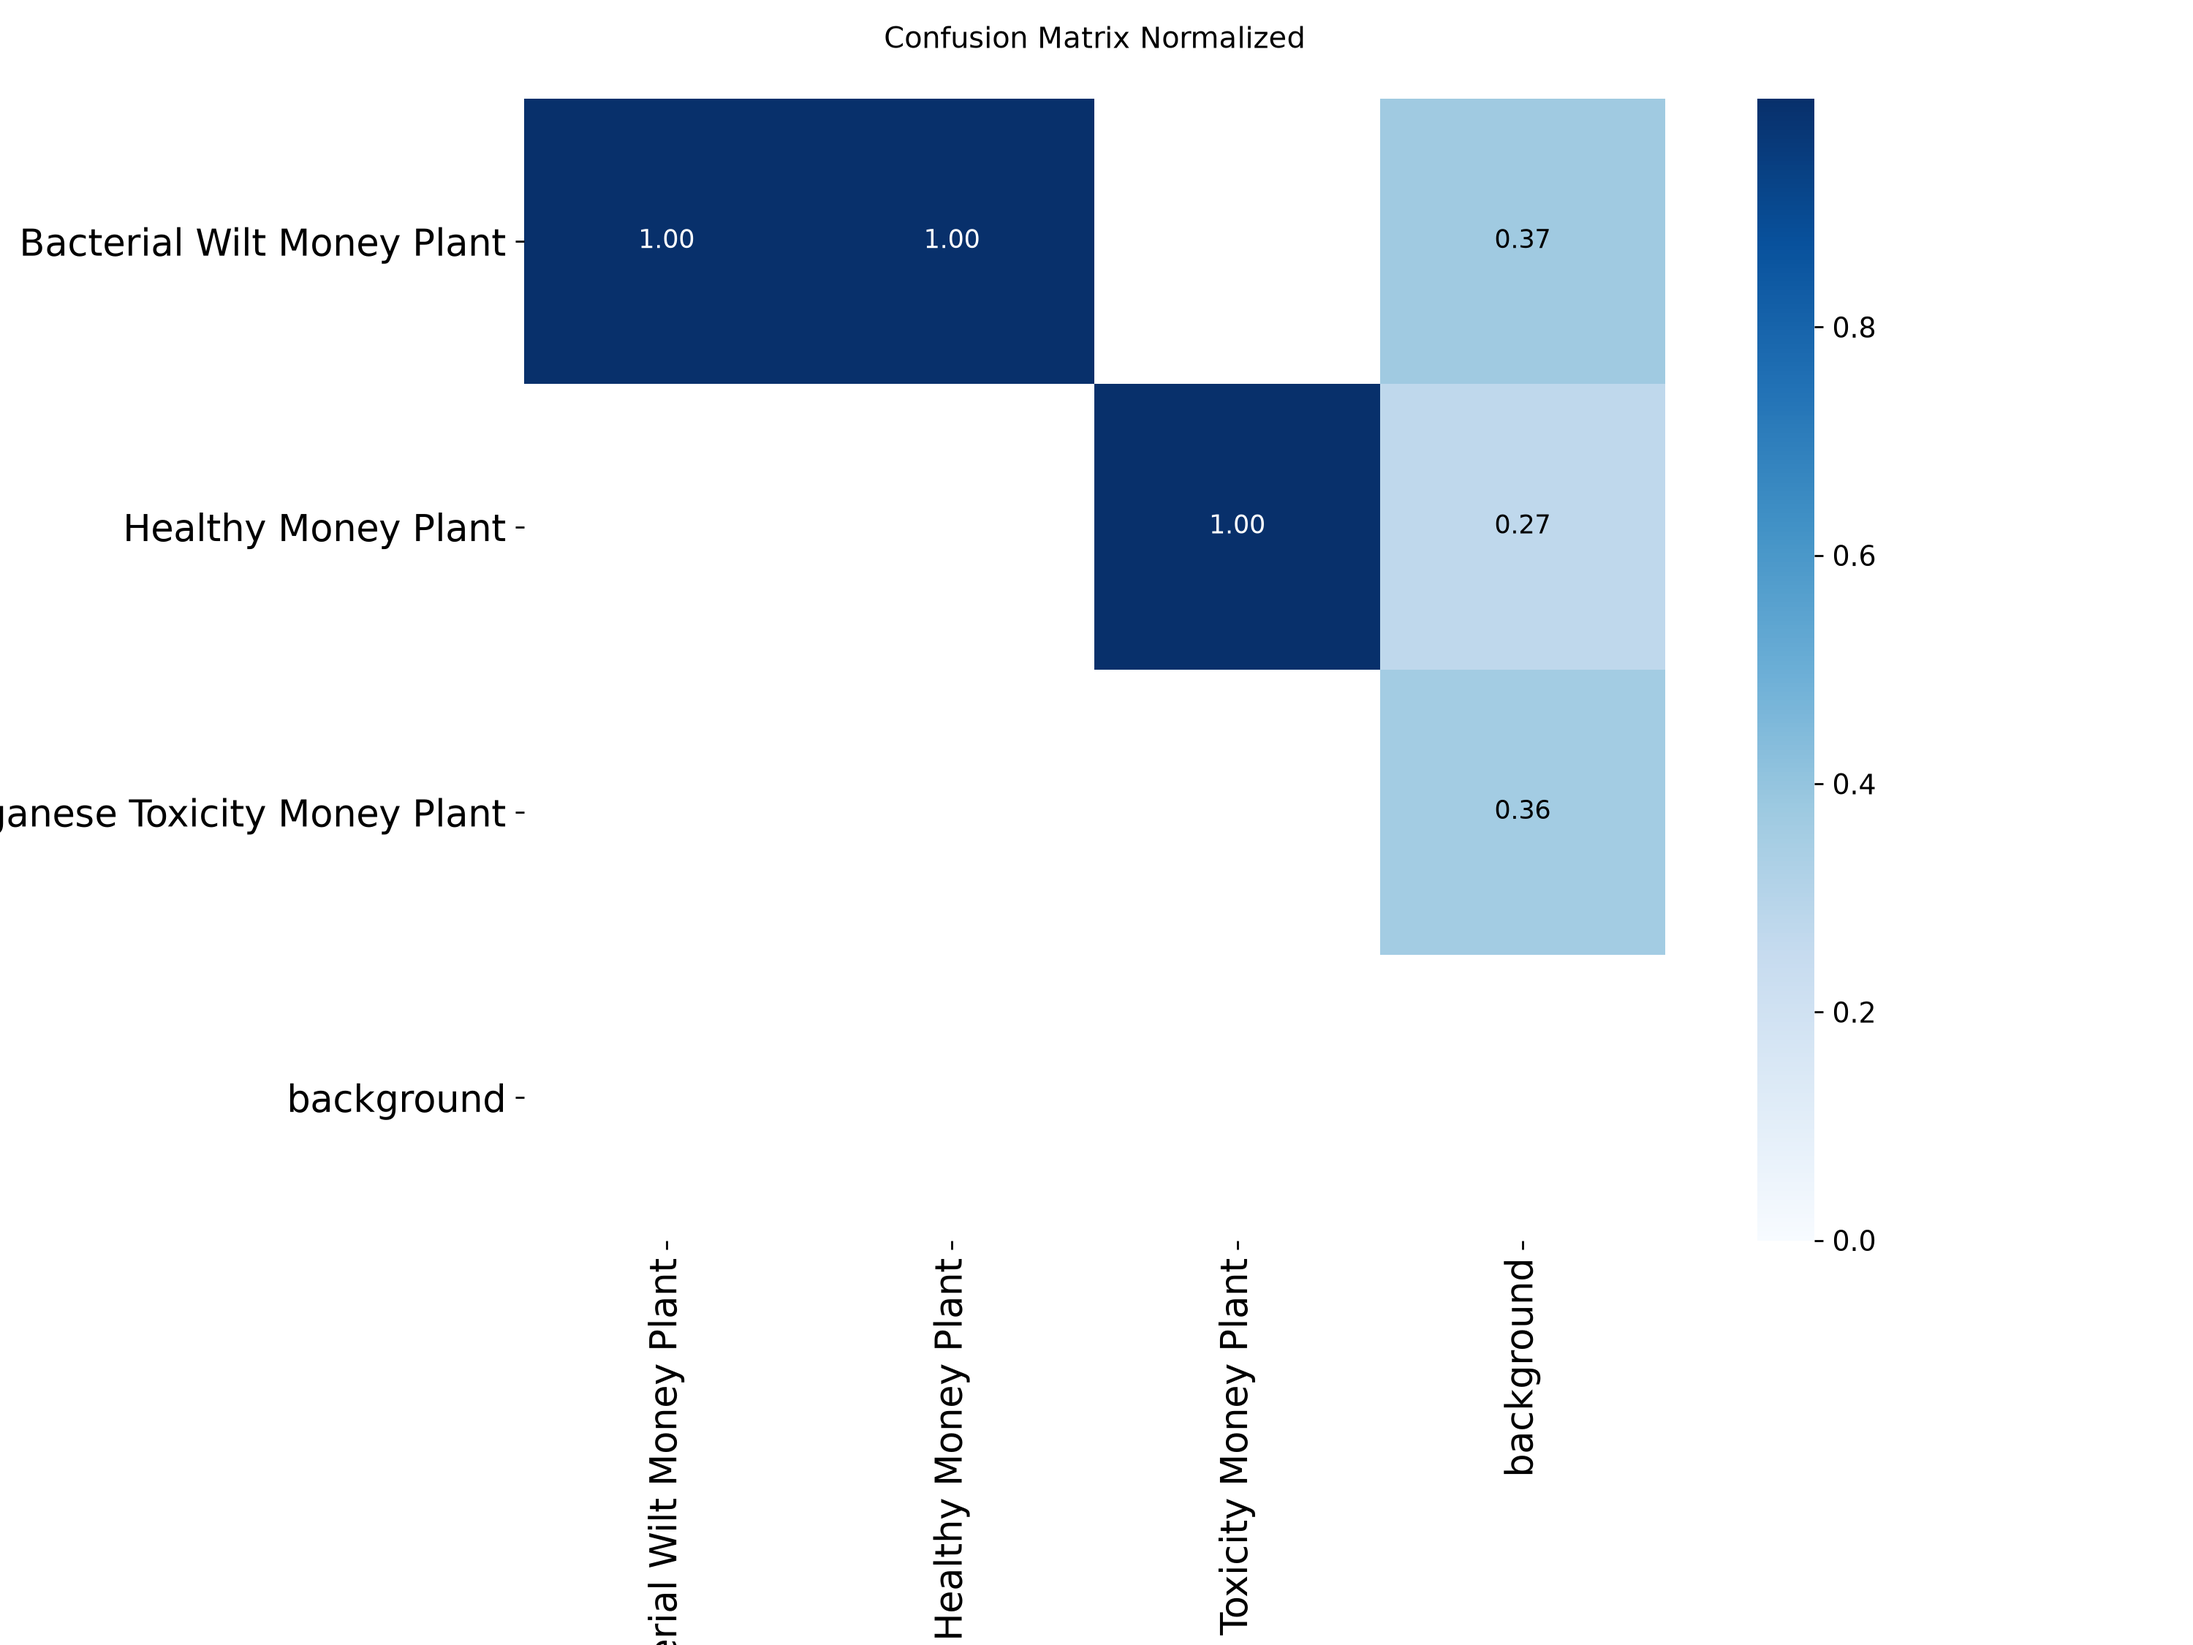
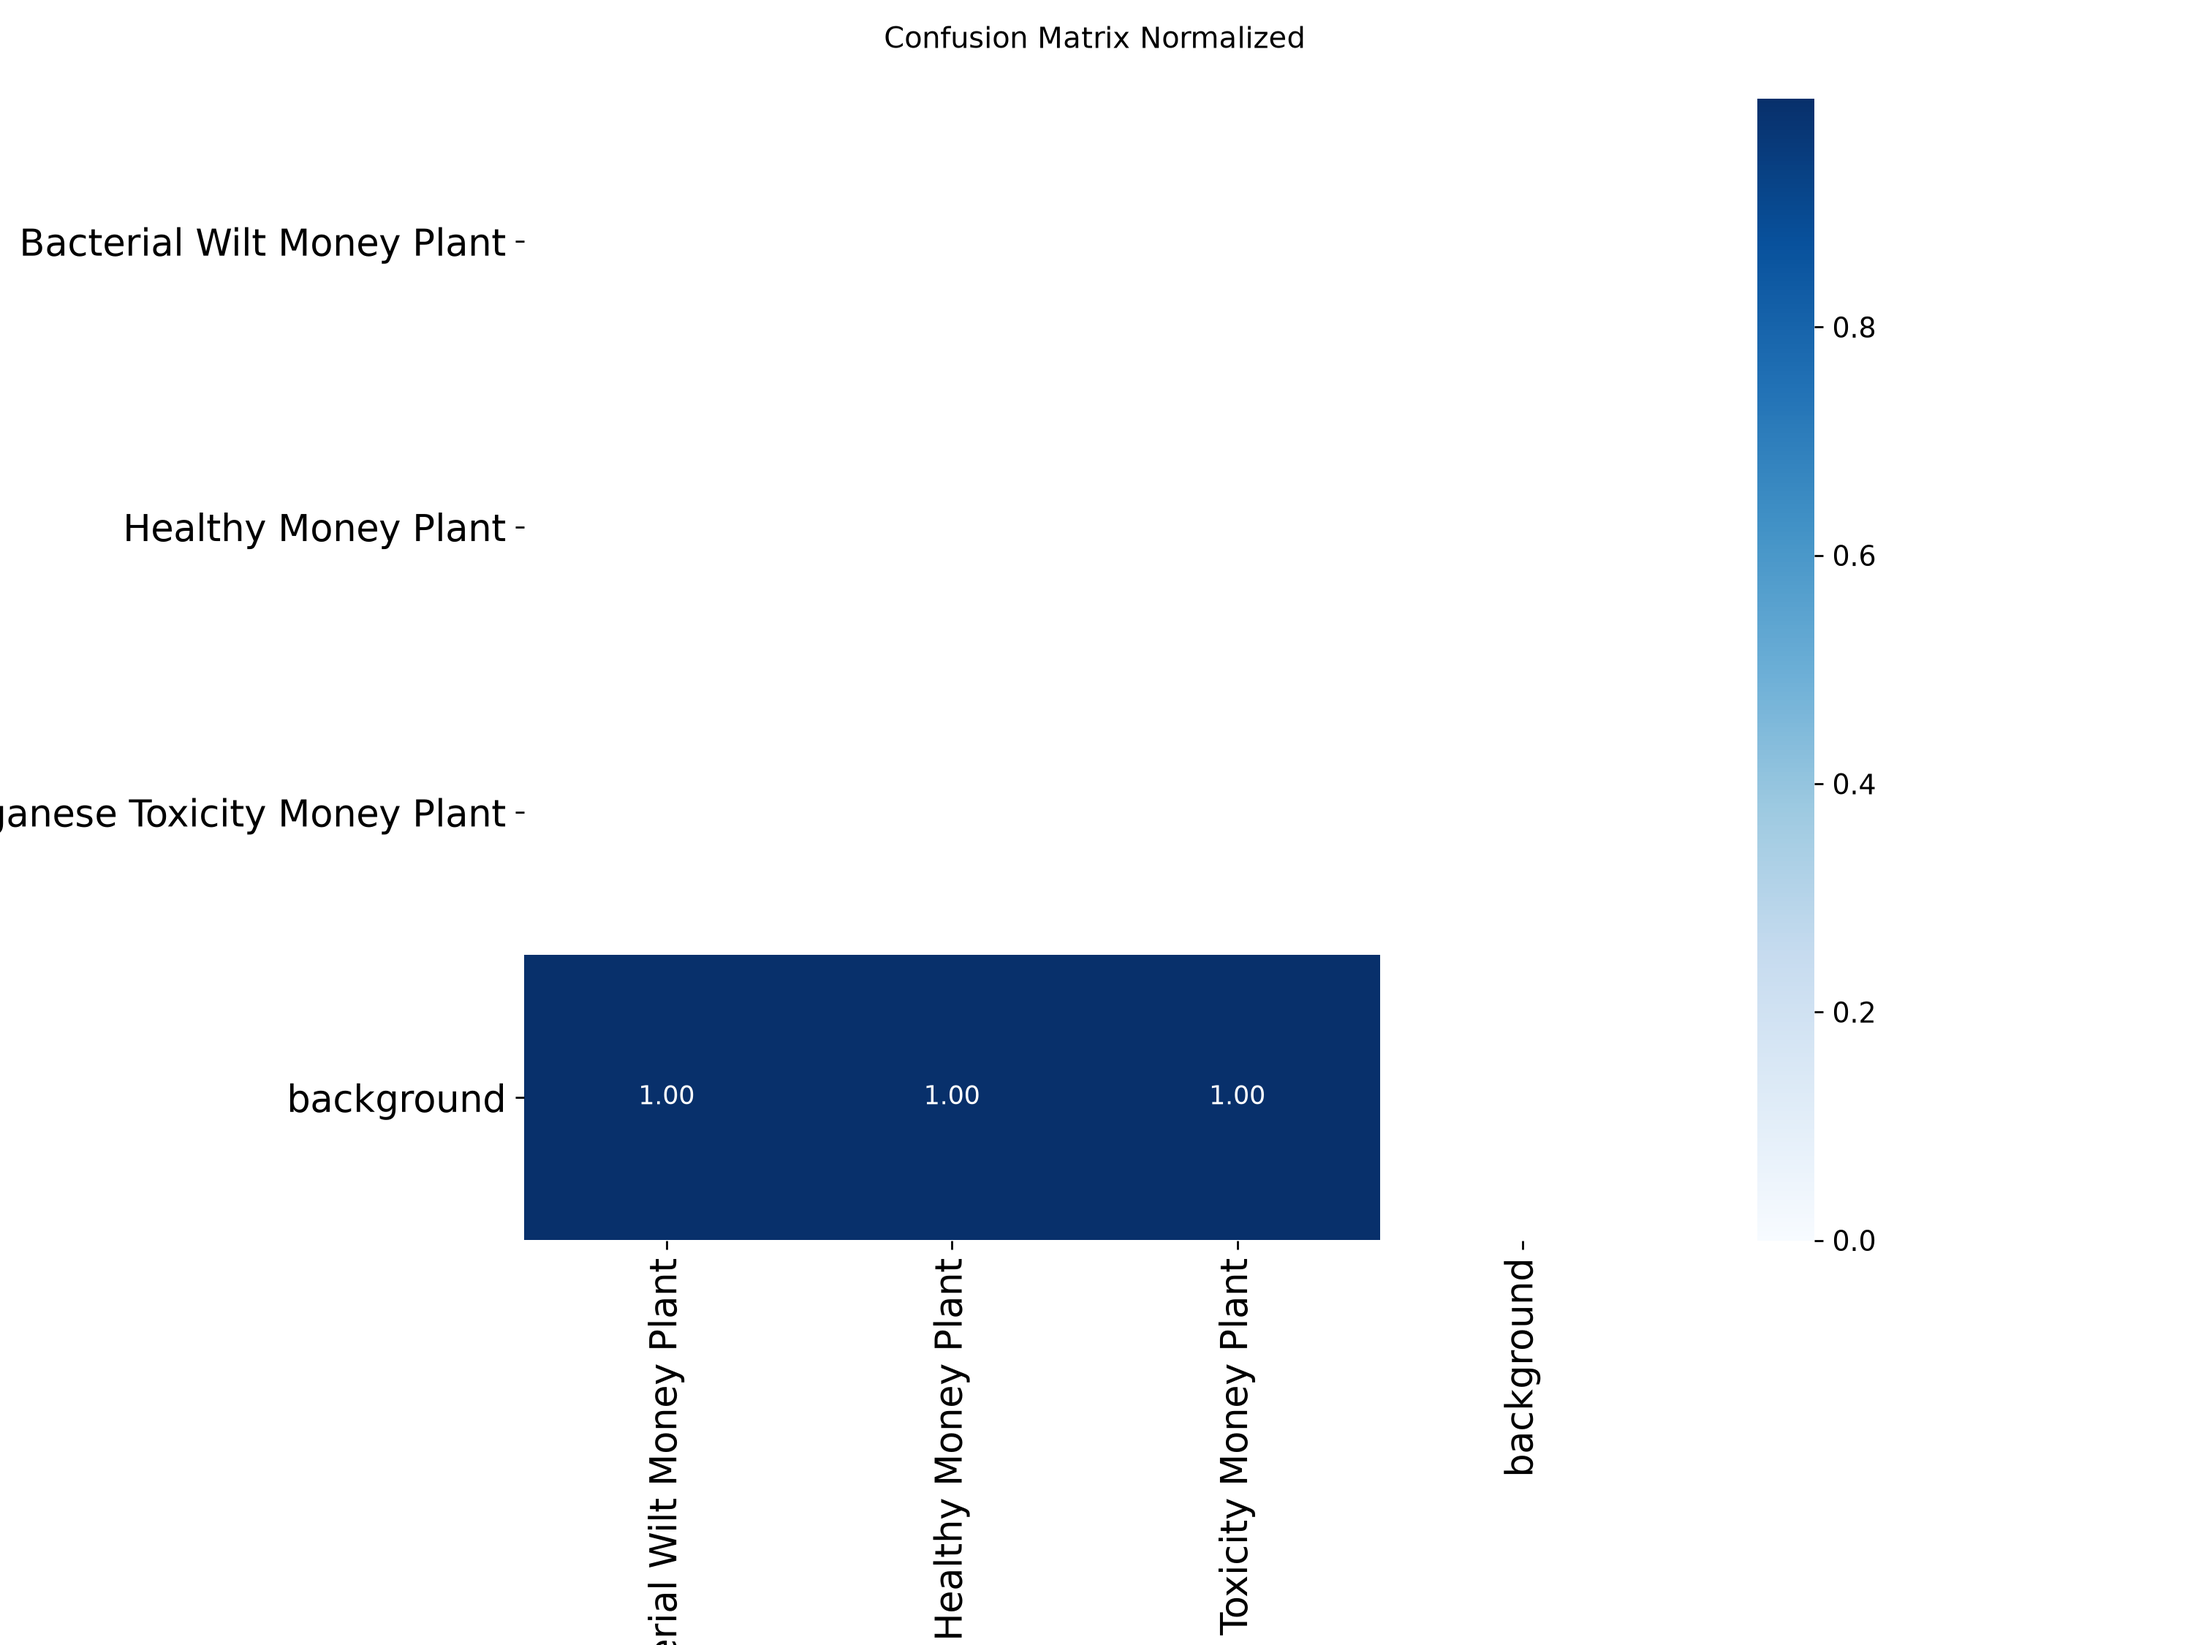
Fix Task 17: evaluate real cucumber model with conf=0.25 to prevent box spam

Changed region(s): [[0.217, 0.0622, 0.775, 0.7778]]

diff --git a/scripts/run_eval.py b/scripts/run_eval.py
@@ -114,6 +114,7 @@ def run_evaluation(species: str) -> dict:
             name="yolo_eval",
             exist_ok=True,
             verbose=True,
+            conf=0.25,
         )
 
         # Extract metrics from results

diff --git a/docs/evaluation/cucumber/README.md b/docs/evaluation/cucumber/README.md
@@ -6,10 +6,10 @@ This folder contains evaluation metrics and artifacts generated on a 100% held-o
 
 | Metric | Score |
 |---|---|
-| **Precision** | `0.7313` |
-| **Recall** | `0.6667` |
-| **mAP@50** | `0.995` |
-| **mAP@50-95** | `0.8071` |
+| **Precision** | `0.0` |
+| **Recall** | `0.0` |
+| **mAP@50** | `0.0` |
+| **mAP@50-95** | `0.0` |
 
 ---
 
@@ -17,9 +17,9 @@ This folder contains evaluation metrics and artifacts generated on a 100% held-o
 
 | Class Name | Precision | Recall | mAP@50 | mAP@50-95 |
 |---|---|---|---|---|
-| **Bacterial Wilt Money Plant** | 0.9534 | 1.0 | 0.995 | 0.6302 |
-| **Healthy Money Plant** | 1.0 | 0.0 | 0.995 | 0.995 |
-| **Manganese Toxicity Money Plant** | 0.2405 | 1.0 | 0.995 | 0.796 |
+| **Bacterial Wilt Money Plant** | 0.0 | 0.0 | 0.0 | 0.0 |
+| **Healthy Money Plant** | 0.0 | 0.0 | 0.0 | 0.0 |
+| **Manganese Toxicity Money Plant** | 0.0 | 0.0 | 0.0 | 0.0 |
 
 ---
 
